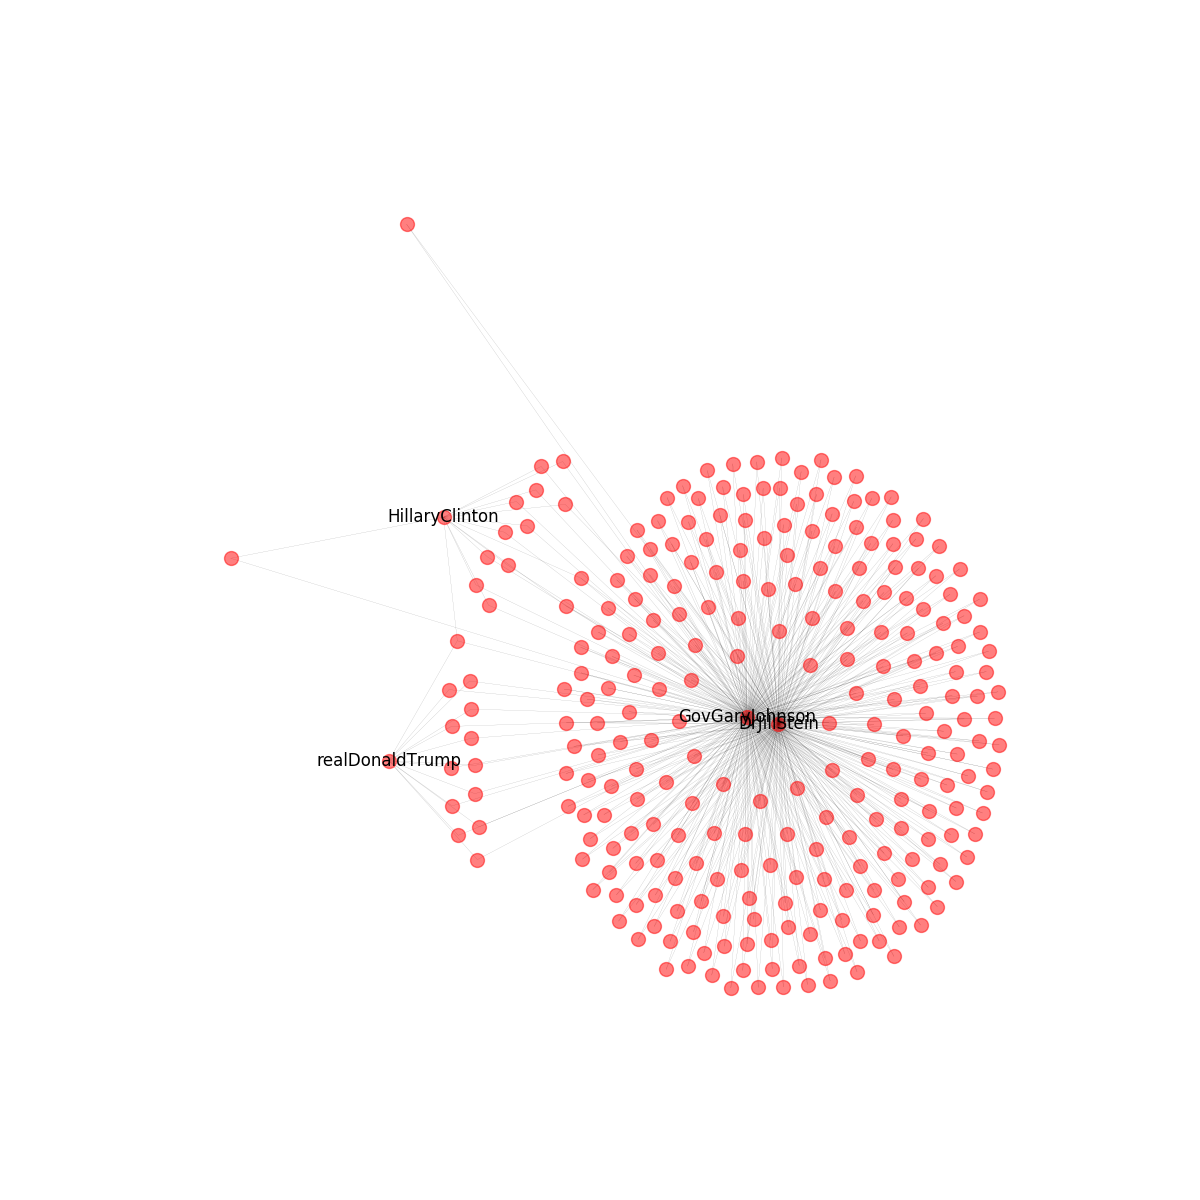
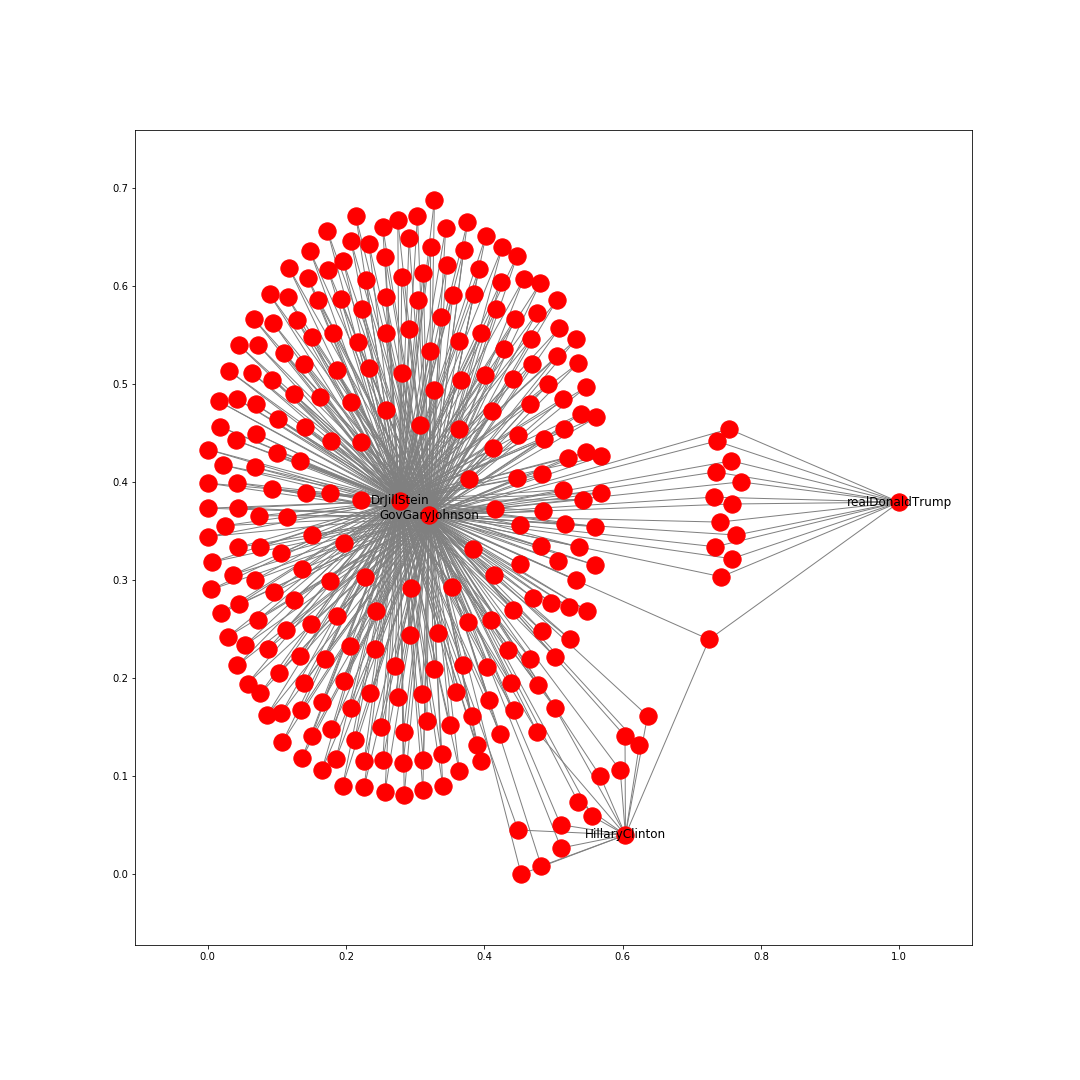
homework completed

Changed region(s): [[0.1833, 0.1833, 0.8861, 0.825]]

diff --git a/a0/a0.py b/a0/a0.py
@@ -37,10 +37,11 @@ import sys
 import time
 from TwitterAPI import TwitterAPI
 
-consumer_key = 'fixme'
-consumer_secret = 'fixme'
-access_token = 'fixme'
-access_token_secret = 'fixme'
+
+consumer_key = 'sAwECNV0gLYBb26Z2eY0ER0zV'
+consumer_secret = 'jlElSa6mBzNuBY9JYeI74Xd7LsF8Hzxxgi0Wjyfi4O5xvGmpcr'
+access_token = '332187569-NdV3vDmOshlV1ZApeoJdbIBcSBXPQGP2ot7M6ga5'
+access_token_secret = '4fcIT7ob2UmkQ09TzLzai0R7rerdcNPFbQnA9kJrIMu2Y'
 
 
 # This method is done for you.
@@ -68,6 +69,12 @@ def read_screen_names(filename):
     """
     ###TODO
     pass
+
+    names = open(filename, "r")
+    all_names = names.read().splitlines()
+    names.close()
+    return all_names
+
 
 
 # I've provided the method below to handle Twitter's rate limiting.
@@ -115,6 +122,18 @@ def get_users(twitter, screen_names):
     ###TODO
     pass
 
+    user_name = []
+    for i in screen_names:
+        user_name.append(i)
+        
+    req = robust_request(twitter, "users/lookup",{"screen_name" : user_name})
+    
+    list = []
+    for i in req:
+        list.append(i)
+        
+    return list
+
 
 def get_friends(twitter, screen_name):
     """ Return a list of Twitter IDs for users that this person follows, up to 5000.
@@ -140,6 +159,14 @@ def get_friends(twitter, screen_name):
     ###TODO
     pass
 
+    
+    req = robust_request(twitter, "friends/ids",{"screen_name" : screen_name, "count":5000} )
+    all_friends = []
+    for i in req:
+        all_friends.append(i)
+    return sorted(all_friends)
+
+    
 
 def add_all_friends(twitter, users):
     """ Get the list of accounts each user follows.
@@ -162,6 +189,11 @@ def add_all_friends(twitter, users):
     ###TODO
     pass
 
+    key = "friends"
+    for name in users:
+        screen_name = name['screen_name']
+        name[key] = get_friends(twitter,screen_name)
+
 
 def print_num_friends(users):
     """Print the number of friends per candidate, sorted by candidate name.
@@ -174,6 +206,12 @@ def print_num_friends(users):
     ###TODO
     pass
 
+    key = "friends"
+    for name in users:
+        screen_name = name['screen_name']
+        no_of_friends = len(name[key])
+        print(screen_name,no_of_friends)
+        
 
 def count_friends(users):
     """ Count how often each friend is followed.
@@ -190,7 +228,15 @@ def count_friends(users):
     """
     ###TODO
     pass
+    
+    all_friends = []
+    for name in users:
+        all_friends += name['friends']
 
+    common = Counter(all_friends)
+    return common
+    
+    
 
 def friend_overlap(users):
     """
@@ -215,7 +261,20 @@ def friend_overlap(users):
     """
     ###TODO
     pass
-
+    
+    overlap_list = []
+    key = 'friends'
+    for name in range(len(users)):
+        screen_name = users[name]['screen_name']
+        for new_name in range(name+1, len(users)):
+            new_screen_name = users[new_name]['screen_name']
+            A= set(users[name][key])
+            B= set(users[new_name][key])
+            length = len(A&B)
+            overlap_list.append((screen_name,new_screen_name,length)) 
+    sort = sorted(overlap_list, key=lambda my_list: (-my_list[2], my_list[0],my_list[1]))
+    return sort
+    
 
 def followed_by_hillary_and_donald(users, twitter):
     """
@@ -233,6 +292,18 @@ def followed_by_hillary_and_donald(users, twitter):
     """
     ###TODO
     pass
+    for name in users:
+        if name['screen_name']=='HillaryClinton':
+            A = set(name['friends'])
+        elif name['screen_name']=='realDonaldTrump':
+            B = set(name['friends'])
+    common_friend = (A&B)
+    req = robust_request(twitter, "users/lookup", {"user_id" : common_friend})
+
+    for i in req:
+        com_friend = i['screen_name']
+    return com_friend
+        
 
 
 def create_graph(users, friend_counts):
@@ -252,7 +323,19 @@ def create_graph(users, friend_counts):
     """
     ###TODO
     pass
+    G = nx.Graph()
+    
+    for name in users:
+        screen_name = name['screen_name']
+        G.add_node(screen_name)
+        for friends in friend_counts:
+            if friend_counts[friends] > 1:
+                if friends in name['friends']:
+                    G.add_edge(friends,screen_name)
+    return G
 
+    
+    
 
 def draw_network(graph, users, filename):
     """
@@ -266,8 +349,19 @@ def draw_network(graph, users, filename):
     """
     ###TODO
     pass
-
-
+    
+    labels = {}
+    for node in graph.nodes():
+        for name in users:
+            screen_name = name['screen_name']
+            if node == screen_name:
+                labels[node] = node
+                
+    plt.figure(figsize=(15,15))
+    nx.draw_networkx(graph, edge_color = 'grey', labels = labels)
+    plt.savefig(filename)
+    
+    
 def main():
     """ Main method. You should not modify this. """
     twitter = get_twitter()
@@ -284,12 +378,10 @@ def main():
     print('Most common friends:\n%s' % str(friend_counts.most_common(5)))
     print('Friend Overlap:\n%s' % str(friend_overlap(users)))
     print('User followed by Hillary and Donald: %s' % followed_by_hillary_and_donald(users, twitter))
-
     graph = create_graph(users, friend_counts)
     print('graph has %s nodes and %s edges' % (len(graph.nodes()), len(graph.edges())))
     draw_network(graph, users, 'network.png')
     print('network drawn to network.png')
-
 
 if __name__ == '__main__':
     main()
